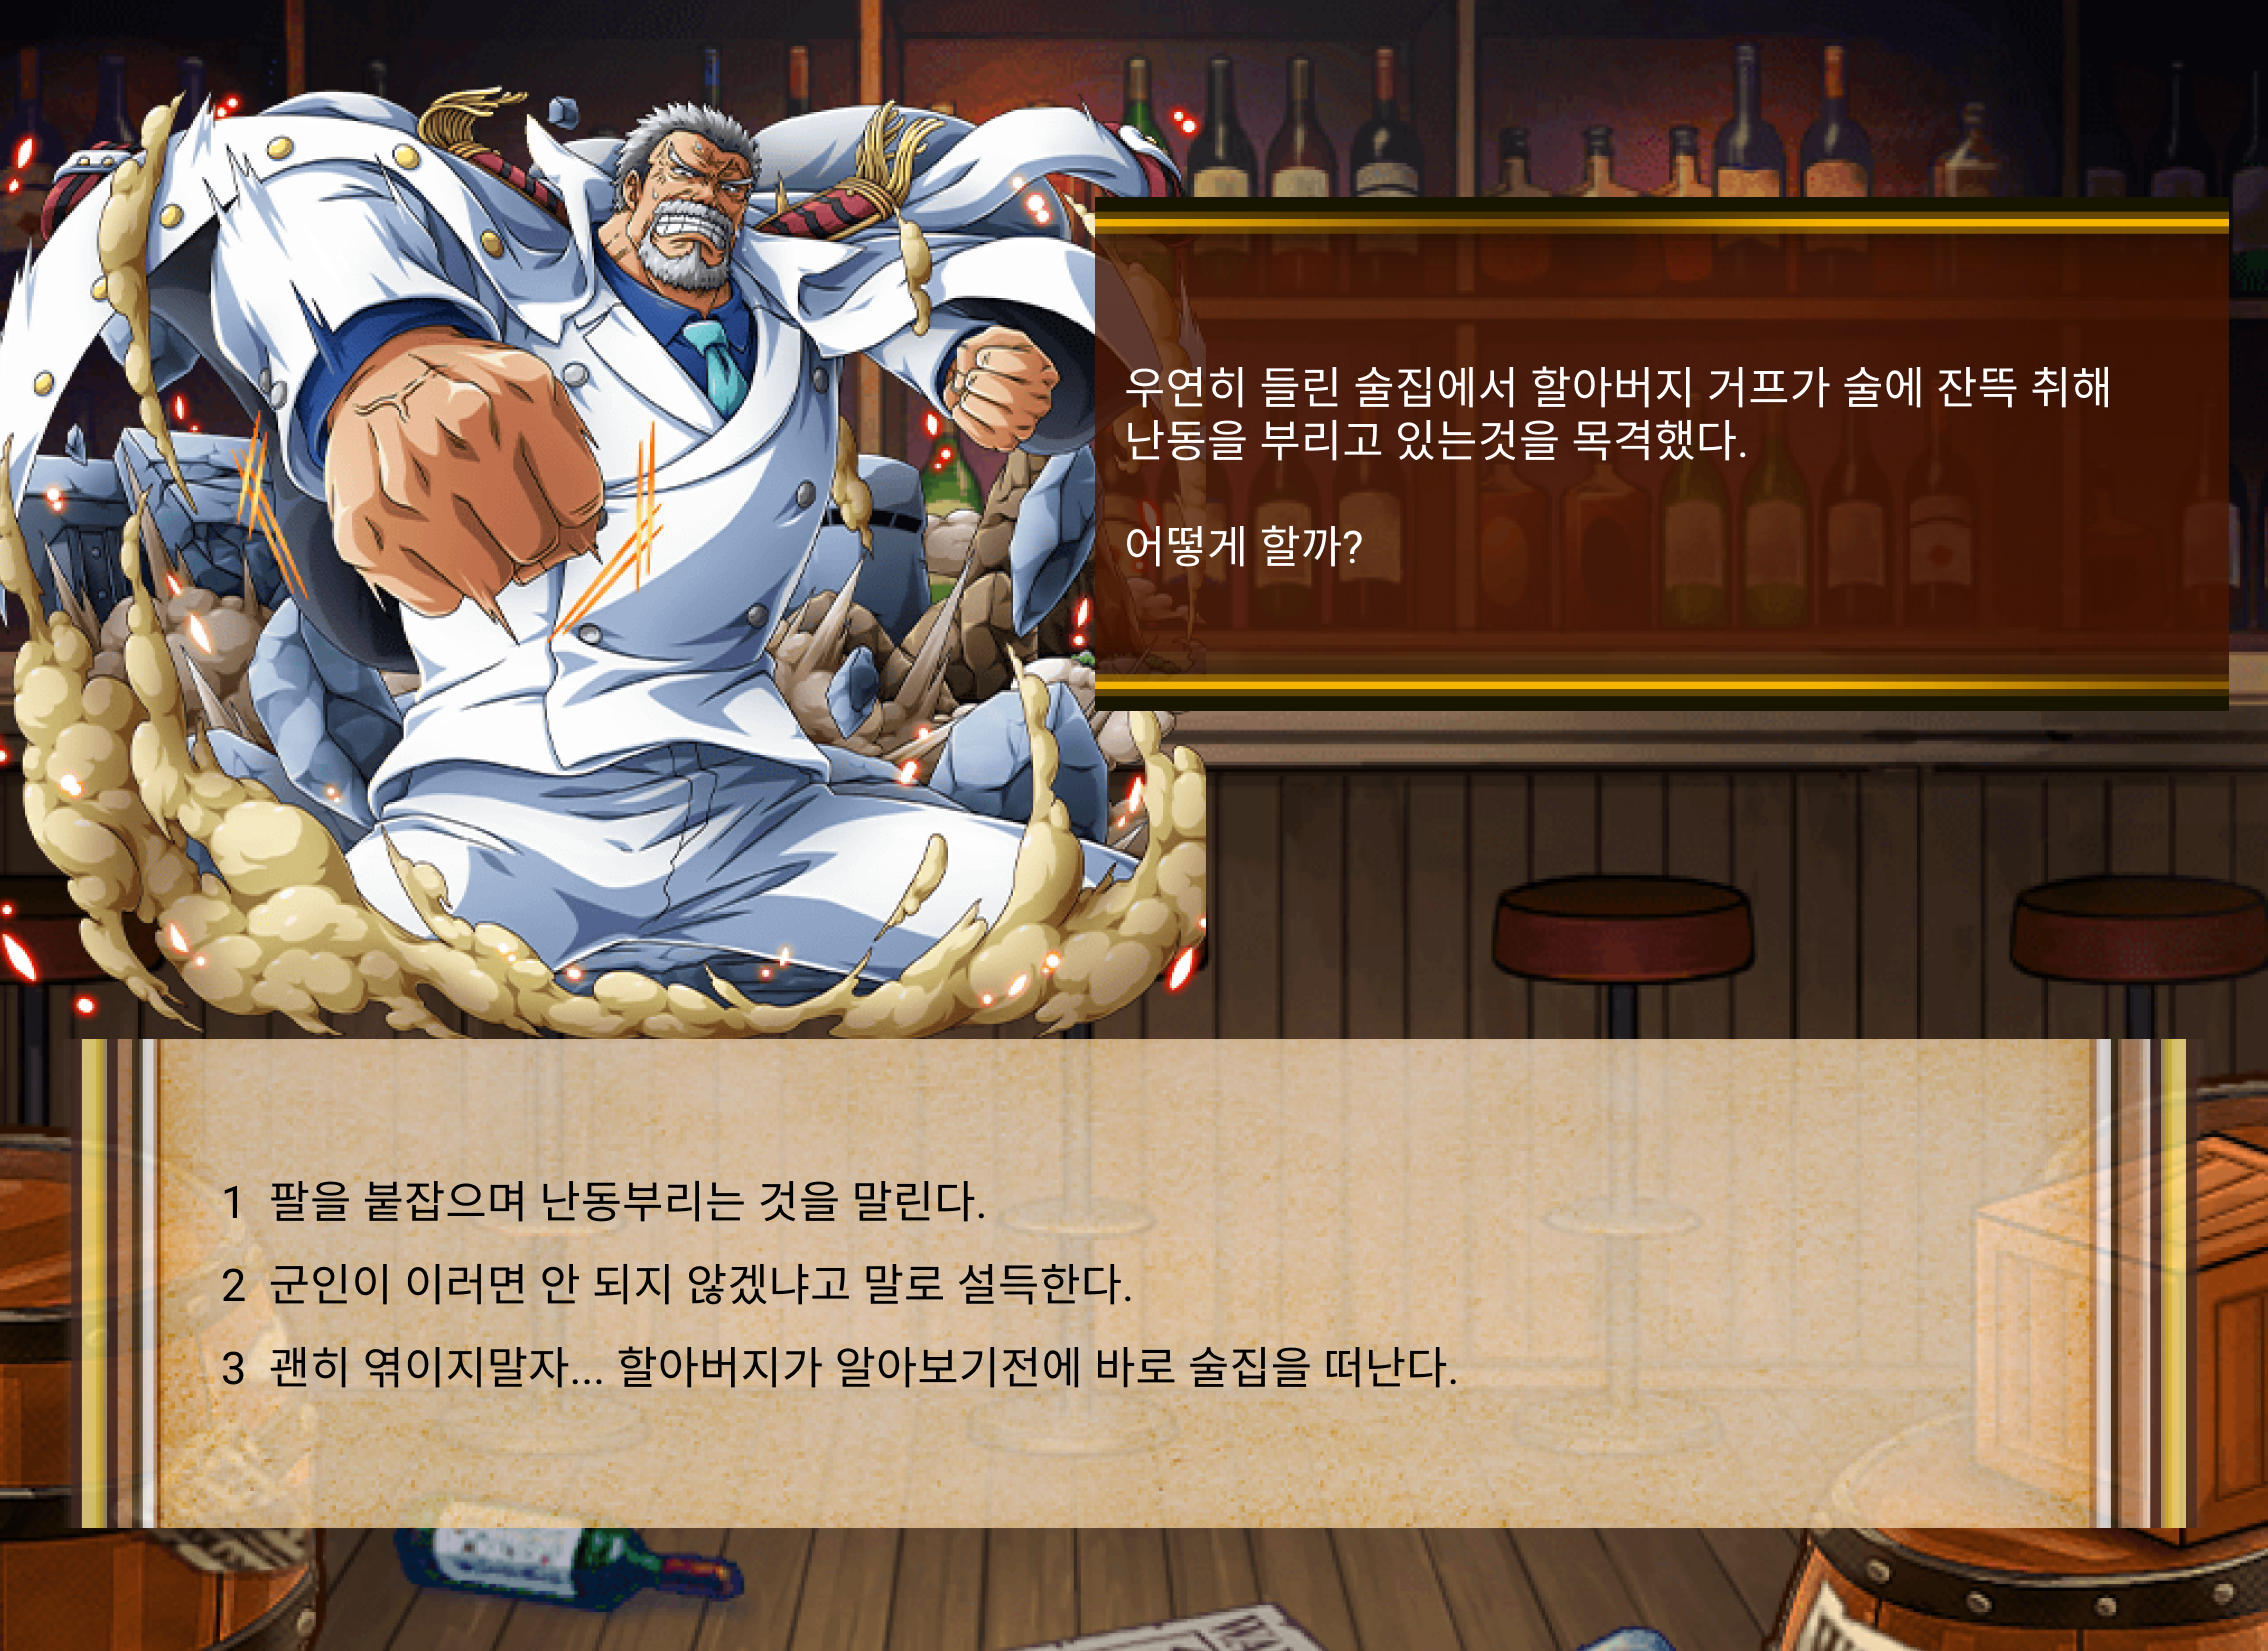
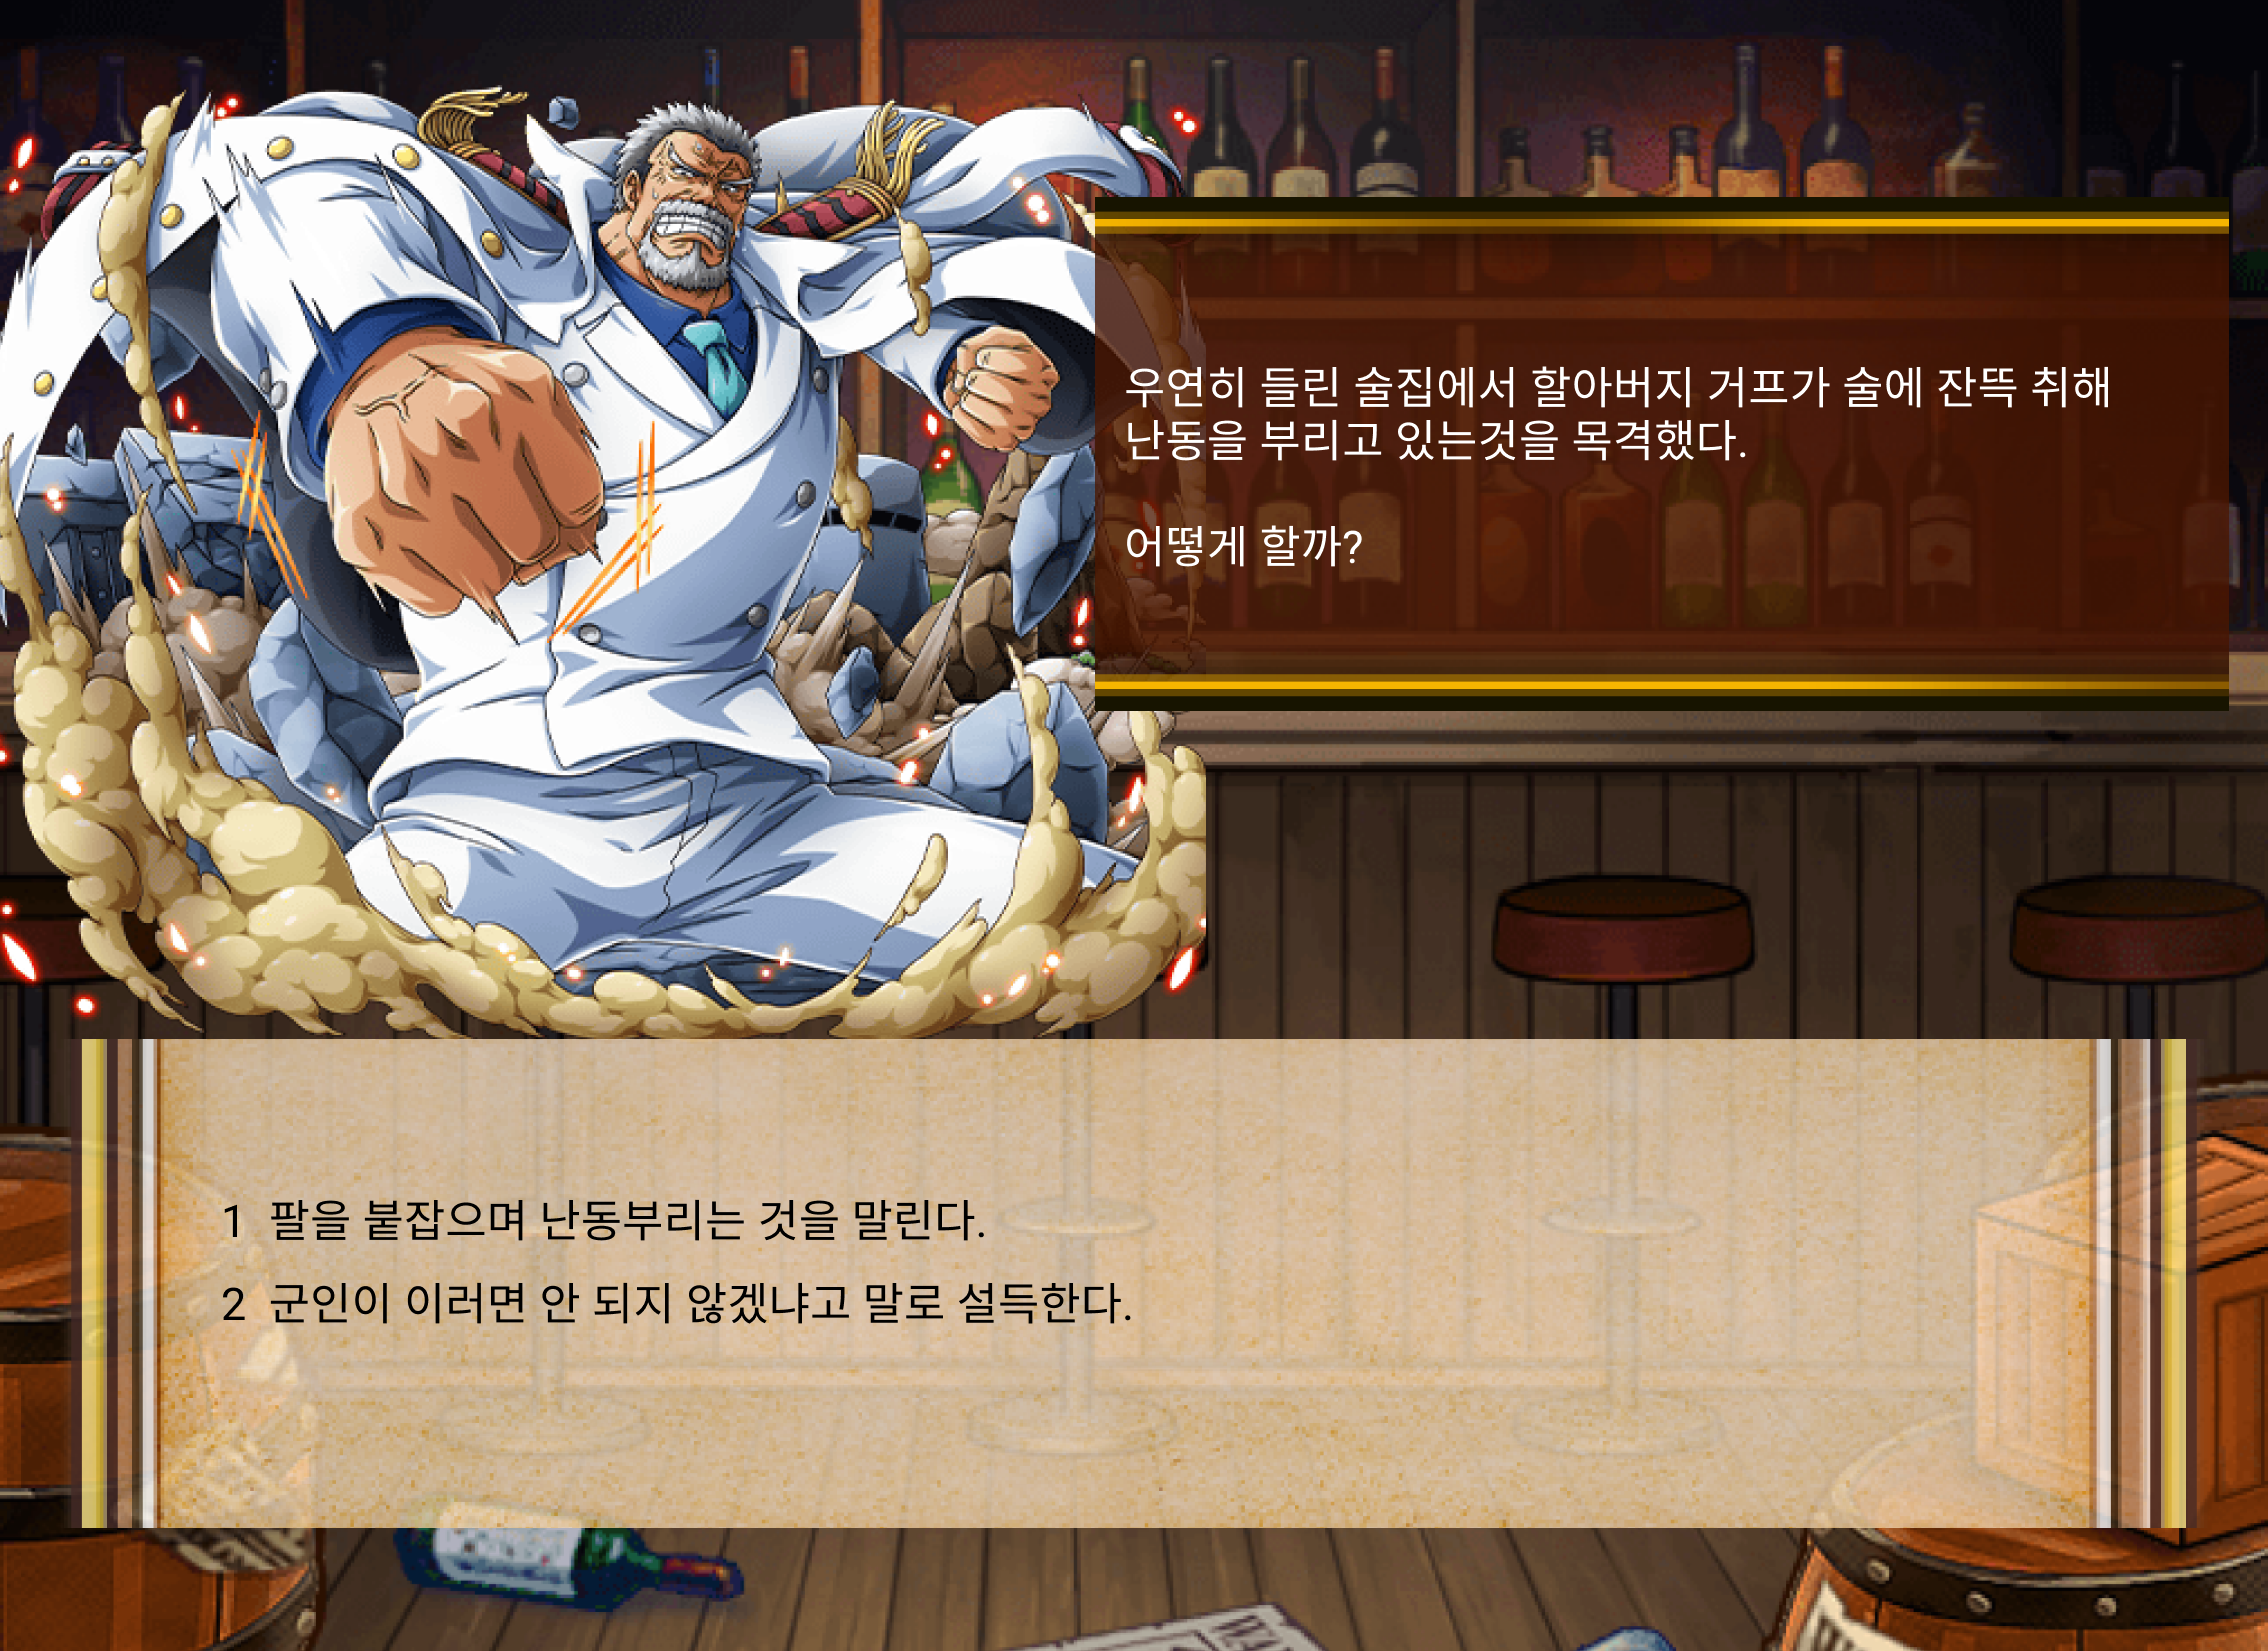
신윤우 이벤트 삭제 제발 ㄴ

Changed region(s): [[0.0926, 0.7105, 0.6481, 0.834]]

diff --git a/src/com/npng/onepiece/event/controller/eventController.java b/src/com/npng/onepiece/event/controller/eventController.java
@@ -19,7 +19,7 @@ public class eventController {
 		int number = 0;
 		
 		if(map <= 4) {
-			 number = (int)(Math.random() *37)+3;
+			 number = (int)(Math.random() *40)+3;
 		}
 		if(map == 5) {
 			number = (int)(Math.random() *37)+2;
@@ -33,15 +33,16 @@ public class eventController {
 	public String sceresult(int map , int num, int chNum) {
 		//선택지, 시나리오번호,캐릭터번호
 		
-		int result = 0;
-		if(num >= 3 && num <= 37) {	
+		int result = 0; /*1~4번맵*/  /* 38~ 40 은 특수상점*/
+		if(num >= 3 && num <= 40) {	
 		 result =eventservice.sceresult(map, num,chNum);
 		}
-		if(num== 38) {
-			/*핸콕 동료 이벤트실행*/
+	
+		if(num == 2) {    /*5번맵*/
+		 result = eventservice.sceresult(map, num,chNum);
 		}
-		if(num == 2) {
-			/* 조로 동료 이벤트 실행*/
+		if(num== 41) {    /*6번맵*/
+			/*핸콕 동료 이벤트실행*/
 		}
 		 
 		String name = "d";
